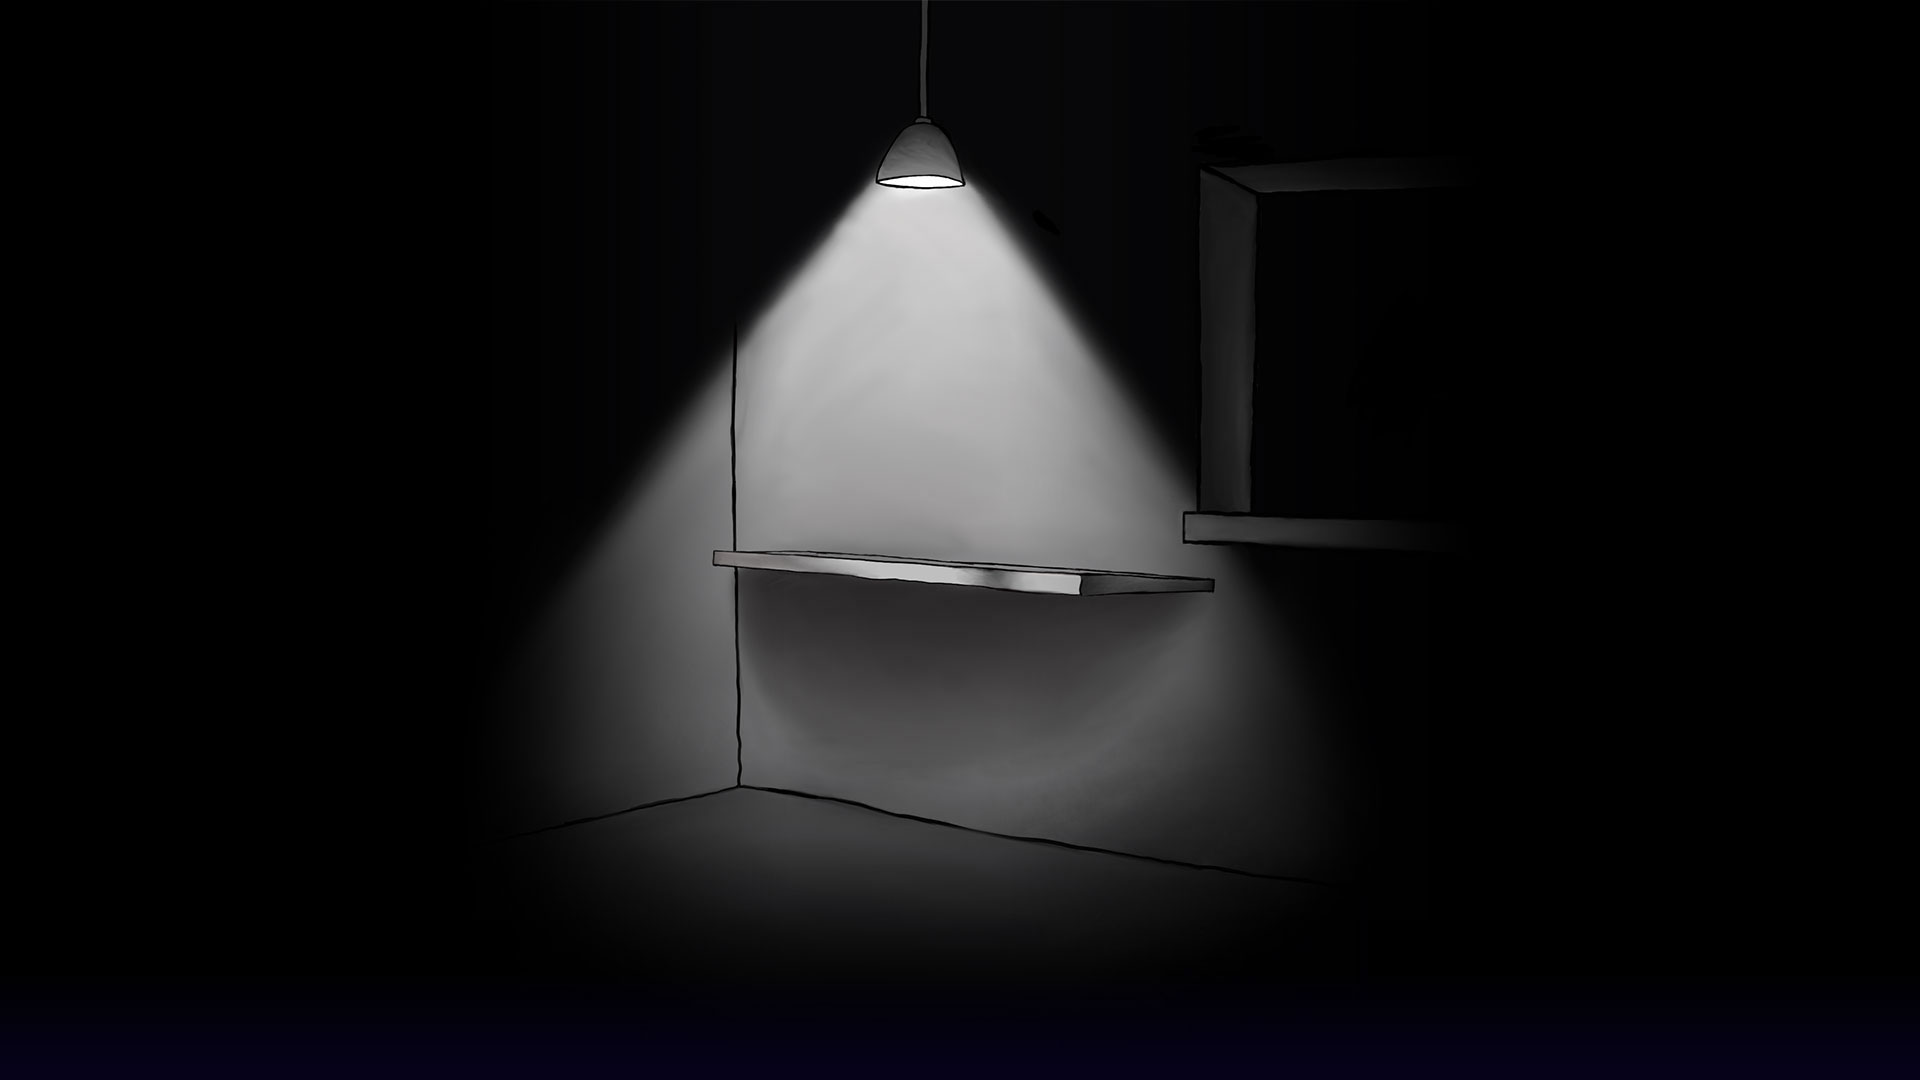
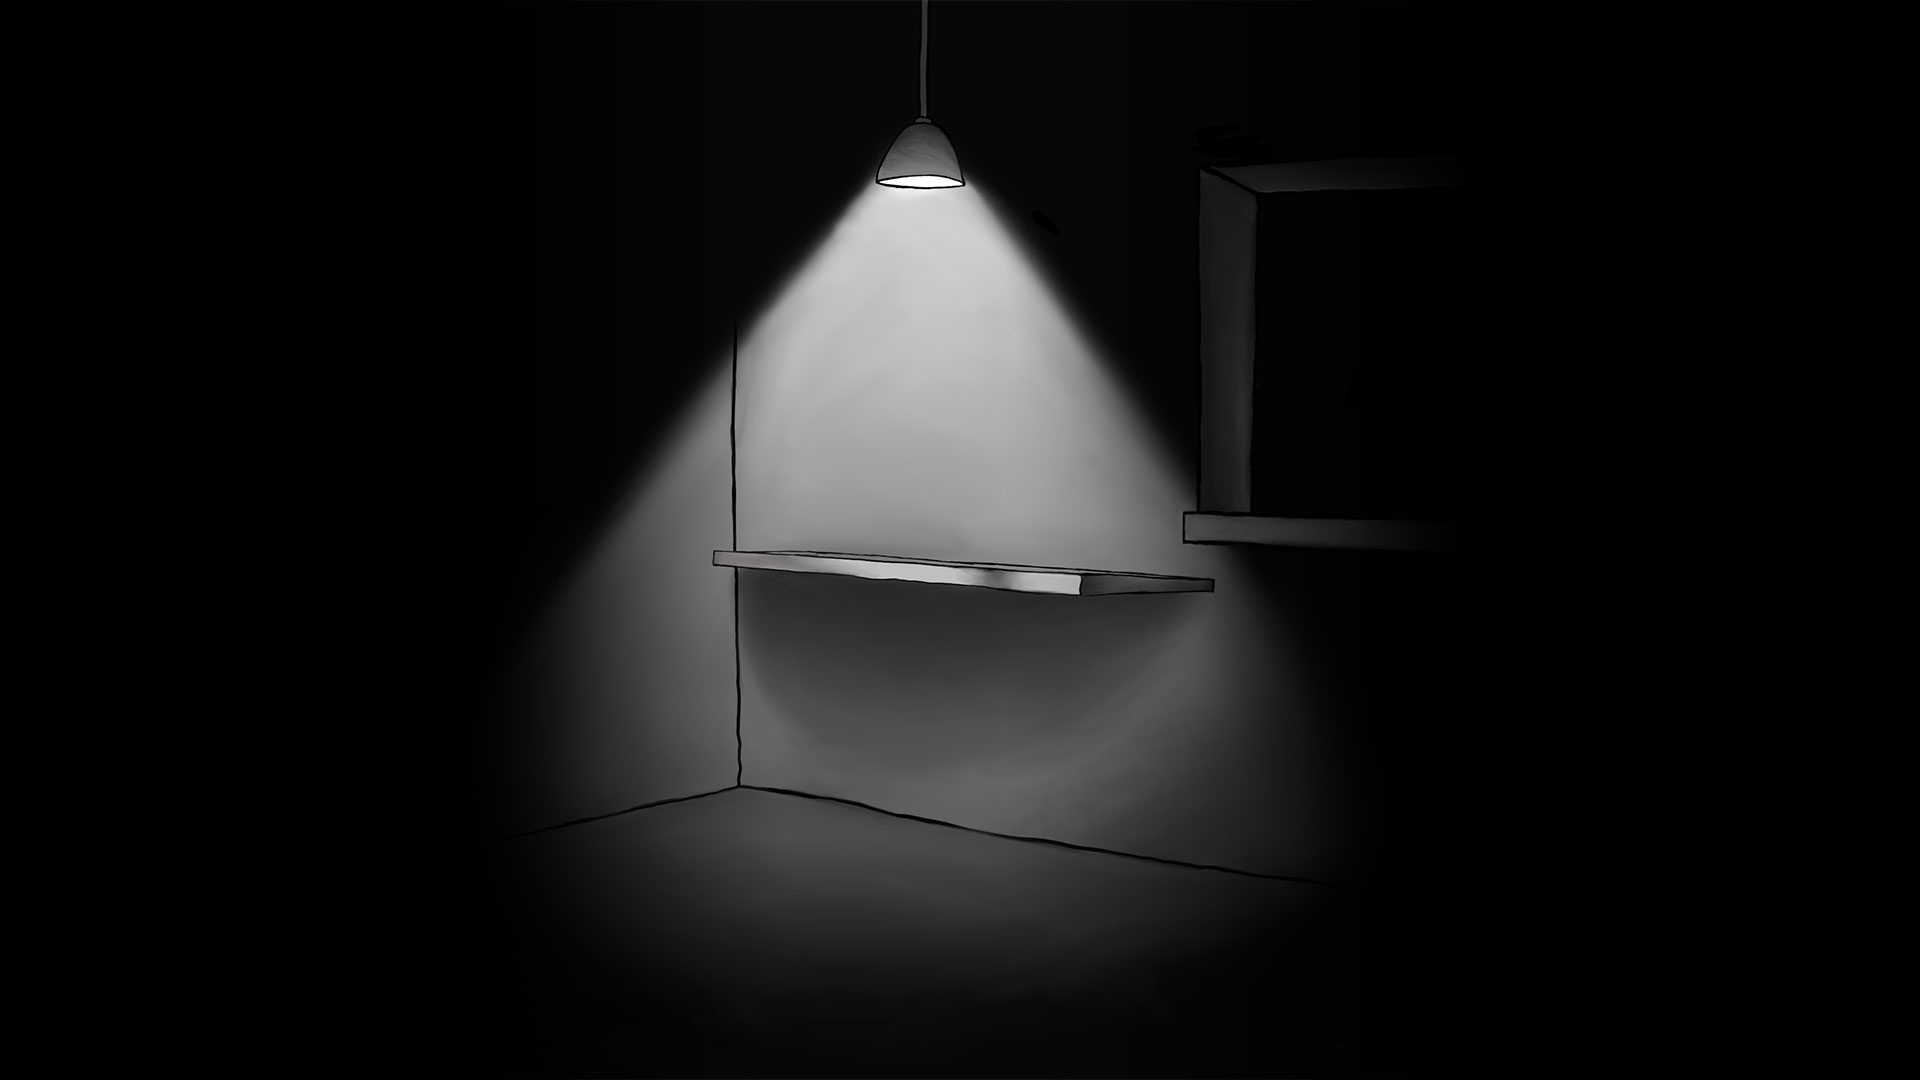
Add Hero Layers

Changed region(s): [[0.7188, 0.9778, 1.0, 1.0], [0.0, 0.9778, 0.2812, 1.0]]

diff --git a/src/components/homepage/Hero.tsx b/src/components/homepage/Hero.tsx
@@ -4,28 +4,52 @@ import deskBackground from "../../assets/desk-background.jpg"
 import deskBackgroundBlack from "../../assets/desk-background-black.jpg"
 import ScrollDown from "../ScrollDown"
 import InternButton from "../Button"
+import HeroLayers from "../utilities/HeroLayers"
+import { useState } from "react"
 
 const DISCORD_LINK = "https://discord.gg/Jbbf9D6h5E"
 
 export function Hero() {
+  const [layersToShow, setLayersToShow] = useState(0)
+
+  setInterval(() => {
+    const numLayers = Math.floor(Math.random() * 10)
+    setLayersToShow(numLayers)
+  }, 5000)
+
   return (
-    <div className='hero w-full'>
-      <div className='relative pb-16 sm:pb-24'>
+    <div className='hero w-full h-screen'>
+      <div className='relative h-screen flex flex-col'>
+        <div className='backgrounds'>
+          <div
+            className='absolute top-0 left-0 w-full h-full bg-cover bg-no-repeat bg-center -z-10'
+            style={{ backgroundImage: `url(${deskBackgroundBlack})` }}
+          >
+            <div className='max-w-max mx-auto h-min-400 flex place-items-center justify-center'></div>
+          </div>
+          <div
+            className='animate-flickerMinor absolute top-0 left-0 w-full h-full bg-cover bg-no-repeat bg-center -z-10'
+            style={{ backgroundImage: `url(${deskBackground})` }}
+          >
+            <div className='max-w-max mx-auto h-min-400 flex place-items-center justify-center'></div>
+          </div>
+          {HeroLayers.map((layer, index) => {
+            return layersToShow > index ? (
+              <div
+                key={"layer-" + index}
+                className={`animate-flickerLayer${
+                  index + 1
+                } absolute top-0 left-0 w-full h-full bg-cover bg-no-repeat bg-center -z-10`}
+                style={{ backgroundImage: `url(${HeroLayers[index]})` }}
+              >
+                <div className='max-w-max mx-auto h-min-400 flex place-items-center justify-center'></div>
+              </div>
+            ) : null
+          })}
+        </div>
         <Nav />
-        <div
-          className='absolute top-0 left-0 w-full h-full bg-cover bg-no-repeat bg-center -z-10'
-          style={{ backgroundImage: `url(${deskBackgroundBlack})` }}
-        >
-          <div className='max-w-max mx-auto h-min-400 flex place-items-center justify-center'></div>
-        </div>
-        <div
-          className='animate-flickerMinor absolute top-0 left-0 w-full h-full bg-cover bg-no-repeat bg-center -z-10'
-          style={{ backgroundImage: `url(${deskBackground})` }}
-        >
-          <div className='max-w-max mx-auto h-min-400 flex place-items-center justify-center'></div>
-        </div>
-        <main className='mt-32 mb-48 sm:mt-48 z-1'>
-          <div className='mx-auto max-w-7xl'>
+        <main className='flex flex-col grow justify-center z-1'>
+          <div className='mx-auto max-w-7xl pb-20'>
             <div className='lg:grid lg:grid-cols-12 lg:gap-8'>
               <div className='px-4 sm:px-6 sm:text-center md:max-w-2xl md:mx-auto lg:col-span-4 lg:text-left lg:flex lg:items-center'>
                 <div>

diff --git a/src/components/utilities/HeroLayers.tsx b/src/components/utilities/HeroLayers.tsx
@@ -1,0 +1,14 @@
+// #region layers
+import layer1 from "../../assets/hero/layer-1.png"
+import layer2 from "../../assets/hero/layer-2.png"
+import layer3 from "../../assets/hero/layer-3.png"
+import layer4 from "../../assets/hero/layer-4.png"
+import layer5 from "../../assets/hero/layer-5.png"
+import layer6 from "../../assets/hero/layer-6.png"
+import layer7 from "../../assets/hero/layer-7.png"
+import layer8 from "../../assets/hero/layer-8.png"
+import layer9 from "../../assets/hero/layer-9.png"
+// #endregion
+
+const HeroLayers = [layer1, layer2, layer3, layer4, layer5, layer6, layer7, layer8, layer9]
+export default HeroLayers.reverse()
